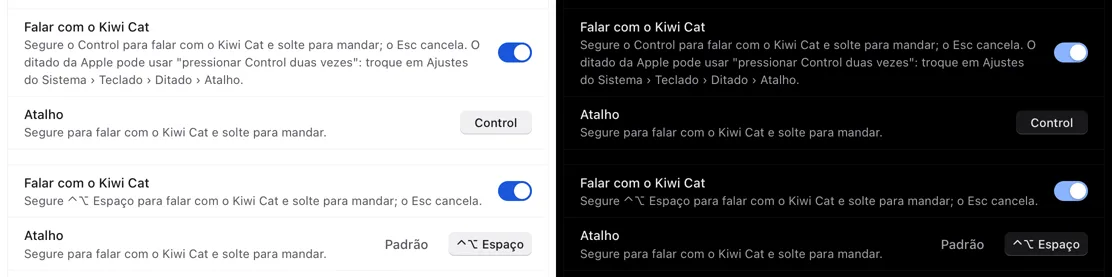
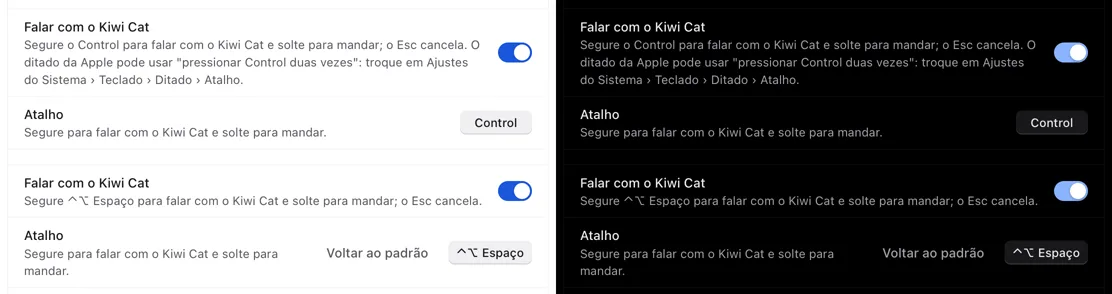
Os atalhos de antes não travam, e os textos do lead (T13145)
- checkShortcutsPatch confere só os conflitos que o patch cria: um arquivo de
  antes com o ditado no ⌃ direito (e o Kiwi Cat no Control, o padrão novo) não
  trava a troca dos outros atalhos; o do Kiwi Cat fica desarmado até a pessoa
  escolher outro (revisão).
- O passo 2 do onboarding sem o subtítulo: o título, o cartão e uma frase, que
  leva o aviso do microfone (#13175).
- "Padrão" virou "Voltar ao padrão", que só aparece fora do padrão (#13175).

diff --git a/app/ui/hub/onboarding/onboarding.test.ts b/app/ui/hub/onboarding/onboarding.test.ts
@@ -5,9 +5,10 @@ import { expect, test } from "bun:test";
 import { ONBOARDING_STEPS } from "../../../src/shared/agent-onboarding.ts";
 import { holdName, stepText, canLeaveClaude, magicCandidates, magicRequest, projectCandidates, controlLine, controlStep, type ControlPhase, DEFAULT_TONE, toneExample, toneOf, withTone, progressLine, projectsSummary, shortcutSummary, STEP_COUNT, STEP_TEXT, stepAt, toneSummary } from "./onboardingText.ts";
 
-test("os 9 passos na ordem do spec, cada um com título e frase", () => {
+test("os 9 passos na ordem do spec, cada um com título e frase (o do Control, sem subtítulo: a frase é a do cartão)", () => {
   expect(STEP_COUNT).toBe(9);
-  expect(ONBOARDING_STEPS.map((s) => STEP_TEXT[s].title.length > 0 && STEP_TEXT[s].hint.length > 0)).toEqual(Array(9).fill(true));
+  expect(ONBOARDING_STEPS.map((s) => STEP_TEXT[s].title.length > 0 && (s === "control" || STEP_TEXT[s].hint.length > 0))).toEqual(Array(9).fill(true));
+  expect(STEP_TEXT.control.hint).toBe("");
   expect([stepAt(1), stepAt(4), stepAt(9), stepAt(0), stepAt(12)]).toEqual(["claude", "guardrail", "done", "claude", "done"]);
   expect(progressLine(3)).toBe("Passo 3 de 9");
 });
@@ -36,7 +37,7 @@ test("o cartão final: o jeito de falar, os projetos e o atalho", () => {
   expect(shortcutSummary(true, holdName("rightOption"))).toBe("Segure o ⌥ direito para falar");
   expect(stepText("control", "o ⌥ direito").title).toBe("Aperta o ⌥ direito e fala oi");
   expect(stepText("control").title).toBe("Aperta o Control e fala oi");
-  expect(controlLine({ phase: "waiting" }, "⌃⌥ Espaço")).toBe('Segure ⌃⌥ Espaço, diga "oi" e solte.');
+  expect(controlLine({ phase: "waiting" }, "⌃⌥ Espaço")).toBe('Segure ⌃⌥ Espaço, diga "oi" e solte. O microfone só abre enquanto você segura.');
 });
 
 test("o passo 2: a fala pelo Control vai de esperando a ouvindo, pedido e resposta", () => {
@@ -53,7 +54,7 @@ test("o passo 2: a fala pelo Control vai de esperando a ouvindo, pedido e respos
   expect(s).toEqual({ phase: "answered", text: "oi" });
   // Depois de dar certo, segurar de novo não apaga o "deu certo".
   expect(controlStep(s, { voice: { phase: "listening", voz: 0.2 } })).toEqual(s);
-  expect(controlLine({ phase: "waiting" })).toBe('Segure o Control, diga "oi" e solte.');
+  expect(controlLine({ phase: "waiting" })).toBe('Segure o Control, diga "oi" e solte. O microfone só abre enquanto você segura.');
 });
 
 test("o passo 3: o jeito de falar troca só a linha dele nas instruções, e o exemplo muda com a escolha", () => {

diff --git a/app/scripts/settings-ui-check.ts b/app/scripts/settings-ui-check.ts
@@ -186,11 +186,11 @@ await step("as Configurações sobem com a CSP das views, com todos os atalhos e
   await shotShortcuts(page, "01-atalhos-claro.png");
 });
 
-await step("gravar o ditado no ⌥ direito: salva, mostra, e aparece o Padrão (o bug do Fn fixo)", async () => {
+await step("gravar o ditado no ⌥ direito: salva, mostra, e aparece o Voltar ao padrão (o bug do Fn fixo)", async () => {
   await record(page, "Ditar", { shortcut: "rightOption" }, "02-gravando.png");
   await expectKey(page, "Ditar", "⌥ direito");
   if ((await calls(page)) !== '[{"shortcuts":{"dictation":"rightOption"}}]') throw new Error(await calls(page));
-  await row(page, "Ditar").getByRole("button", { name: "Padrão" }).waitFor();
+  await row(page, "Ditar").getByRole("button", { name: "Voltar ao padrão" }).waitFor();
 });
 
 await step("um atalho de outra ação: avisa, e Usar aqui troca e desliga o outro", async () => {
@@ -211,9 +211,9 @@ await step("uma sequência e um toque duplo aparecem como se lê", async () => {
   await expectKey(page, "Pausar meu mic", "⌘ direito duas vezes");
 });
 
-await step("Padrão volta ao padrão; Desligar desliga", async () => {
+await step("Voltar ao padrão volta ao padrão; Desligar desliga", async () => {
   await show(page, "Ditar");
-  await row(page, "Ditar").getByRole("button", { name: "Padrão" }).click();
+  await row(page, "Ditar").getByRole("button", { name: "Voltar ao padrão" }).click();
   await expectKey(page, "Ditar", "Fn 🌐");
   await show(page, "Nova nota");
   await row(page, "Nova nota").getByRole("button", { name: "Desligar" }).click();
@@ -259,7 +259,7 @@ await step("L5 (T5458): o cancelar grava uma tecla sozinha (⌫), pedindo bareKe
   const other = await page.evaluate(() => JSON.stringify((window as any).__recordArgs.at(-1)));
   if (other !== "{}") throw new Error(other);
   await show(page, "Cancelar a gravação");
-  await row(page, "Cancelar a gravação").getByRole("button", { name: "Padrão" }).click();
+  await row(page, "Cancelar a gravação").getByRole("button", { name: "Voltar ao padrão" }).click();
   await expectKey(page, "Cancelar a gravação", "Esc");
 });
 

diff --git a/app/ui/hub/onboarding/onboardingText.ts b/app/ui/hub/onboarding/onboardingText.ts
@@ -7,7 +7,8 @@ import type { AgentTurnEvent, AgentVoiceUi } from "../../../src/shared/ui-contra
 
 export const STEP_TEXT: Record<OnboardingStep, { title: string; hint: string }> = {
   claude: { title: "Oi! Vamos acordar o Claude Code", hint: "O Kiwi confere se ele está instalado e logado, baixa a ponte com ele e manda um oi para testar." },
-  control: { title: "Aperta o Control e fala oi", hint: "Segure o Control, fale, e solte para mandar. O microfone só abre enquanto você segura." },
+  // Sem subtítulo (revisão do T13145): o cartão e a frase embaixo já dizem como; a frase leva o aviso do microfone.
+  control: { title: "Aperta o Control e fala oi", hint: "" },
   tone: { title: "O seu jeito", hint: "Como o agente fala com você: curto ou detalhado, formal ou informal." },
   guardrail: { title: "O guardrail na prática", hint: "Escreva uma senha de mentira e veja o Kiwi esconder antes de qualquer coisa sair do Mac." },
   model: { title: "O Modelo de nota", hint: "Como o agente organiza as suas notas." },
@@ -88,7 +89,7 @@ export function controlStep(s: ControlPhase, e: { voice: AgentVoiceUi } | { turn
 export function controlLine(s: ControlPhase, hold = "o Control"): string {
   switch (s.phase) {
     case "waiting":
-      return `Segure ${hold}, diga "oi" e solte.`;
+      return `Segure ${hold}, diga "oi" e solte. O microfone só abre enquanto você segura.`;
     case "listening":
       return `Ouvindo… solte ${hold} para mandar.`;
     case "processing":

diff --git a/app/ui/settings/Shortcuts.tsx b/app/ui/settings/Shortcuts.tsx
@@ -79,9 +79,9 @@ export function ShortcutRow({ id, shortcuts, disabled = false }: { id: ShortcutI
       ? def.scope === "app"
         ? "Aperte a combinação. Esc cancela."
         : id === "agent"
-          ? "Aperte a tecla (o ⌃, ⌥ ou ⌘ direito) ou a combinação. Esc cancela; para voltar ao Control, use Padrão."
+          ? "Aperte a tecla (o ⌃, ⌥ ou ⌘ direito) ou a combinação. Esc cancela; para voltar ao Control, use Voltar ao padrão."
         : id === "cancel"
-          ? "Aperte a tecla (⌫, ↩…) ou a combinação. Esc cancela; para voltar ao Esc, use Padrão."
+          ? "Aperte a tecla (⌫, ↩…) ou a combinação. Esc cancela; para voltar ao Esc, use Voltar ao padrão."
         : "Aperte o atalho: uma tecla, duas vezes, uma combinação ou uma sequência. Esc cancela."
       : state.kind === "conflict"
         ? `${shortcutLabel(state.text)} já é de “${shortcutDef(state.other).label}”. Usar aqui desliga lá.`
@@ -104,7 +104,7 @@ export function ShortcutRow({ id, shortcuts, disabled = false }: { id: ShortcutI
           <>
             {current !== def.default ? (
               <Button className="kn-button kn-shortcut-reset" onClick={() => choose(def.default)} title={`Voltar ao padrão (${shortcutLabel(def.default)})`}>
-                Padrão
+                Voltar ao padrão
               </Button>
             ) : null}
             {/* O Kiwi Cat se desliga pelo interruptor dele (spec #12946), não pelo atalho. */}

diff --git a/app/src/shared/shortcuts.ts b/app/src/shared/shortcuts.ts
@@ -258,7 +258,11 @@ export function sanitizeShortcuts(input: unknown, legacy: { notes?: unknown; mee
   return out;
 }
 
-/** Confere um `settings.set {shortcuts}`: cada um válido para a sua ação, e nenhum conflito no resultado. */
+/**
+ * Confere um `settings.set {shortcuts}`: cada um válido para a sua ação, e nenhum conflito que o patch cria. Um conflito
+ * que já estava no arquivo não trava os outros atalhos: o ditado no ⌃ direito de antes do spec #12946 e o Kiwi Cat no
+ * Control (o padrão novo) ficam como estão, o do Kiwi Cat desarmado (o agent-voice), até a pessoa escolher outro.
+ */
 export function checkShortcutsPatch(current: Shortcuts, input: unknown): { ok: true; patch: Partial<Shortcuts> } | { ok: false; error: string } {
   if (!input || typeof input !== "object" || Array.isArray(input)) return { ok: false, error: "shortcuts must be an object" };
   const patch: Partial<Shortcuts> = {};
@@ -270,7 +274,7 @@ export function checkShortcutsPatch(current: Shortcuts, input: unknown): { ok: t
     else return { ok: false, error: `shortcuts.${id} is not a shortcut this action can use` };
   }
   const next = { ...current, ...patch };
-  for (const id of SHORTCUT_IDS) {
+  for (const id of Object.keys(patch) as ShortcutId[]) {
     const text = next[id];
     const other = text === null ? null : conflictOf(next, id, text);
     if (other) return { ok: false, error: `shortcuts.${id} and shortcuts.${other} use the same keys` };

diff --git a/app/src/shared/shortcuts.test.ts b/app/src/shared/shortcuts.test.ts
@@ -151,4 +151,16 @@ describe("o atalho do Kiwi Cat (spec #12946)", () => {
     expect(checkShortcutsPatch(DEFAULT_SHORTCUTS, { agent: "fn" })).toMatchObject({ ok: false });
     expect(checkShortcutsPatch(DEFAULT_SHORTCUTS, { agent: "rightOption" })).toEqual({ ok: true, patch: { agent: "rightOption" } });
   });
+
+  test("um arquivo de antes, com o ditado no ⌃ direito: os outros atalhos continuam mudando (revisão do T13145)", () => {
+    // Antes do #12946, o ditado podia ficar no ⌃ direito (o Control do agente só desarmava). O Kiwi Cat entra no Control.
+    const before = sanitizeShortcuts({ dictation: "rightControl" });
+    expect([before.dictation, before.agent]).toEqual(["rightControl", "control"]);
+    expect(checkShortcutsPatch(before, { meeting: "control+option+g" })).toEqual({ ok: true, patch: { meeting: "control+option+g" } });
+    // Escolher outro atalho para o Kiwi Cat resolve; repetir o do ditado, não.
+    expect(checkShortcutsPatch(before, { agent: "rightOption" })).toEqual({ ok: true, patch: { agent: "rightOption" } });
+    expect(checkShortcutsPatch(before, { agent: "control" })).toMatchObject({ ok: false });
+    // Trocar o ditado para o Fn também resolve.
+    expect(checkShortcutsPatch(before, { dictation: "fn" })).toEqual({ ok: true, patch: { dictation: "fn" } });
+  });
 });

diff --git a/app/ui/hub/onboarding/Onboarding.tsx b/app/ui/hub/onboarding/Onboarding.tsx
@@ -603,7 +603,7 @@ export function Onboarding() {
       <BigCat cor={catColorHex(settings.kiwicat.cor)} reduced={reduced} />
       <section className="kn-onb-step" key={step} aria-labelledby="kn-onb-title">
         <h1 id="kn-onb-title" className="kn-onb-title" tabIndex={-1}>{text.title}</h1>
-        <p className="kn-onb-hint">{text.hint}</p>
+        {text.hint ? <p className="kn-onb-hint">{text.hint}</p> : null}
         {step === "claude" ? (
           <ClaudeStep status={status} />
         ) : step === "control" ? (
